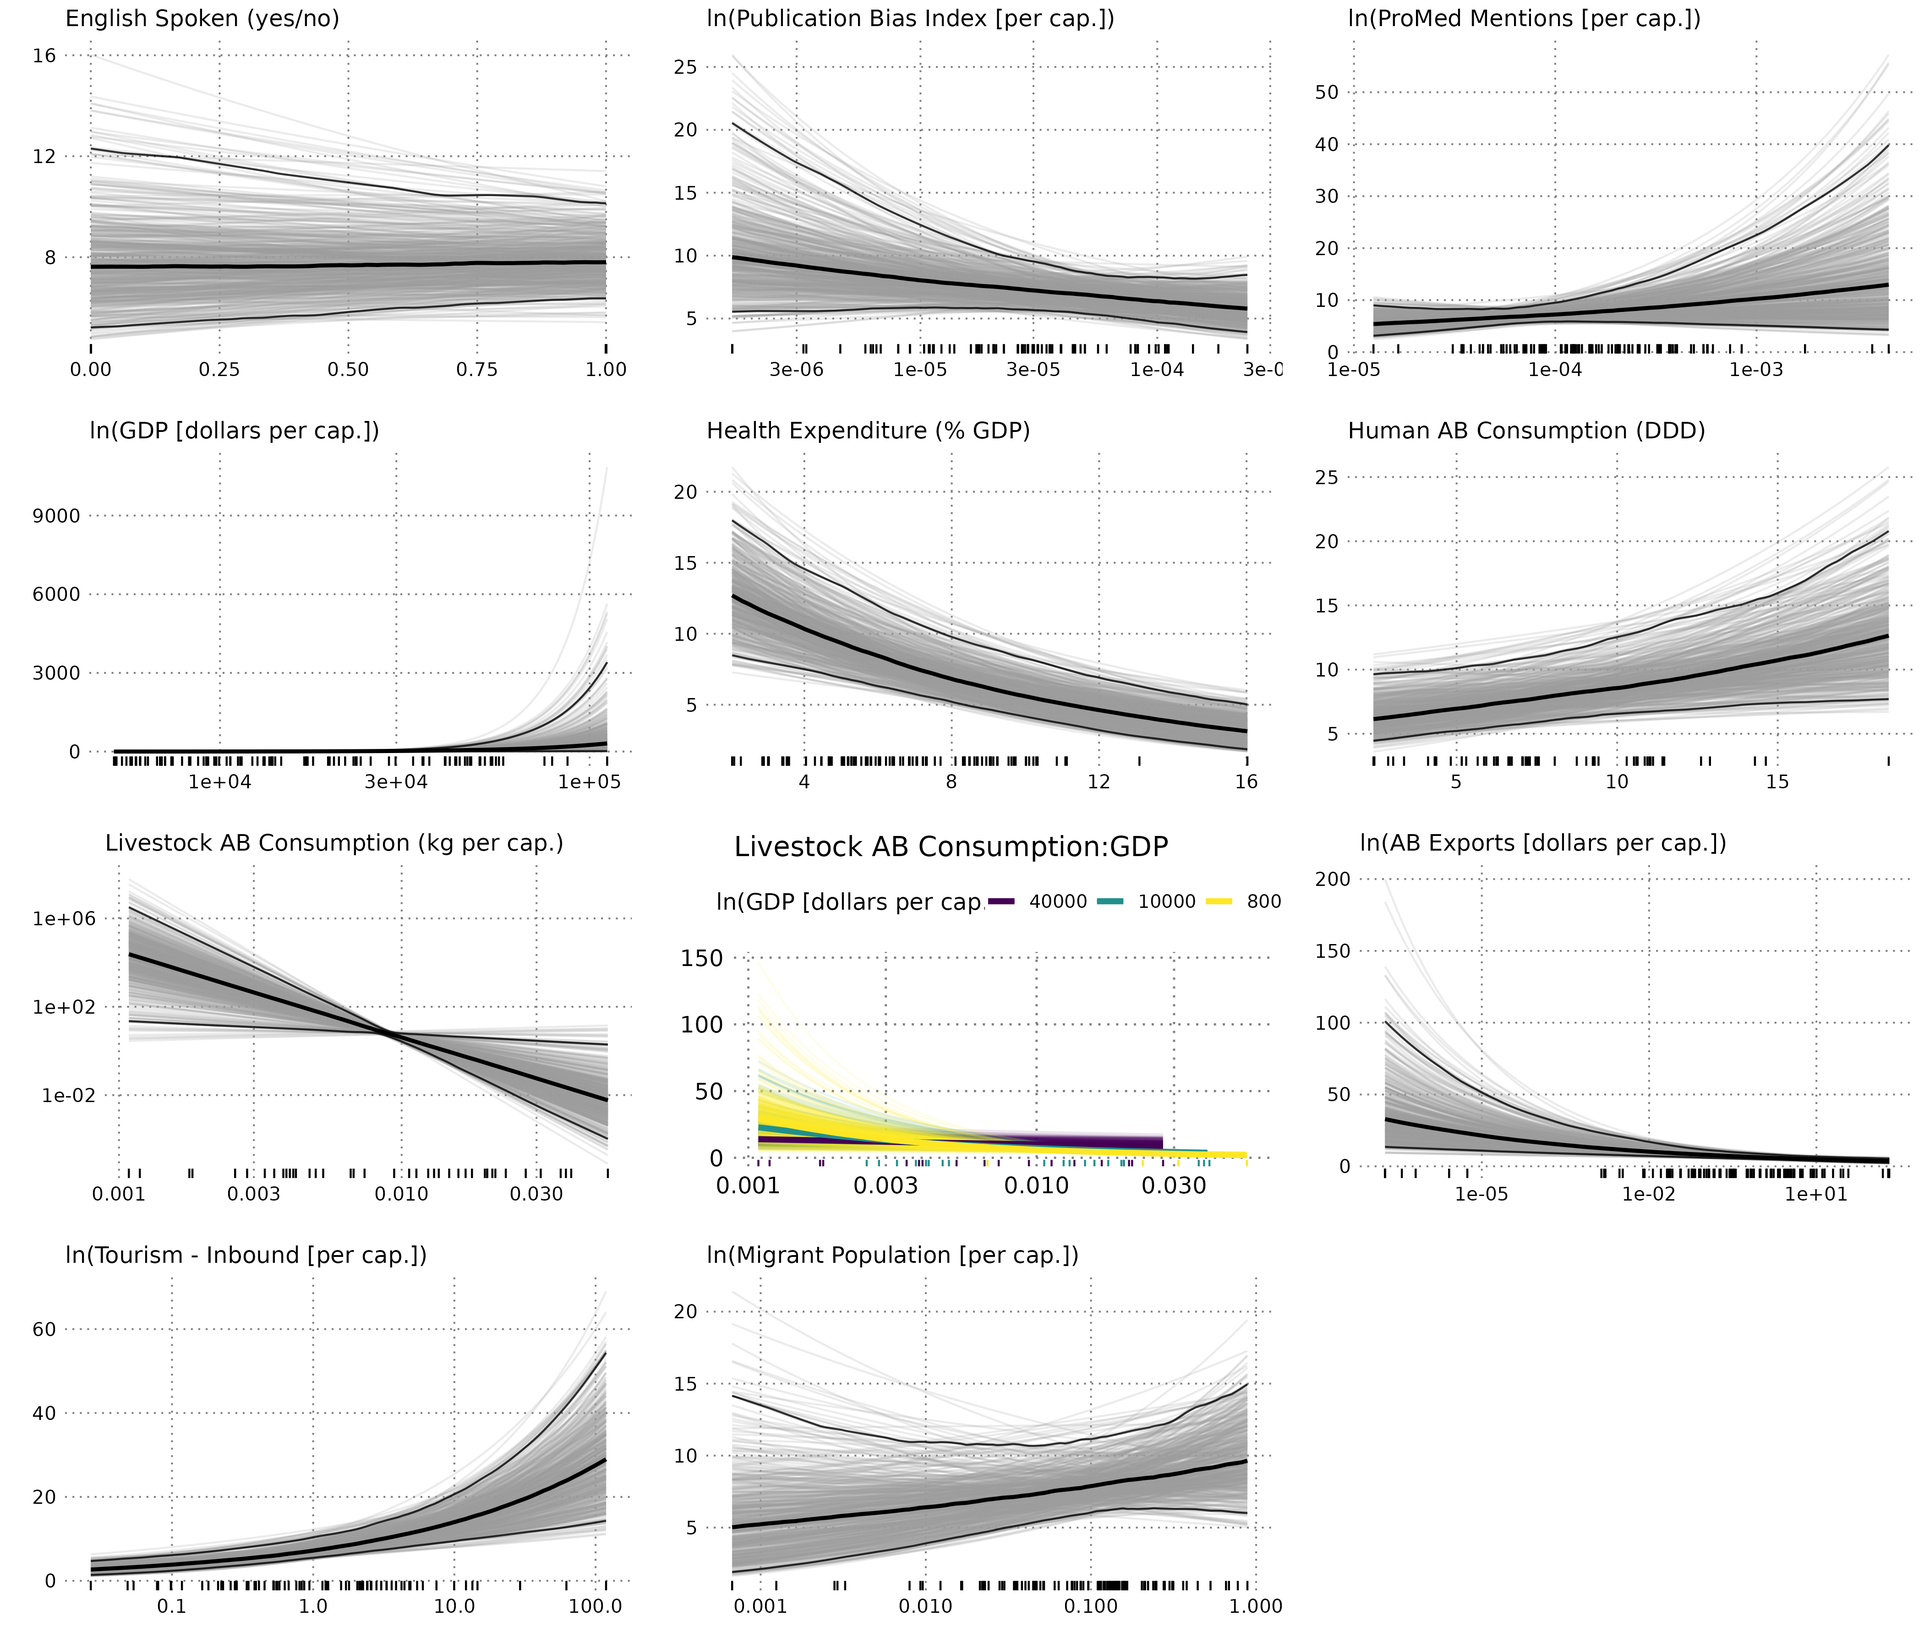
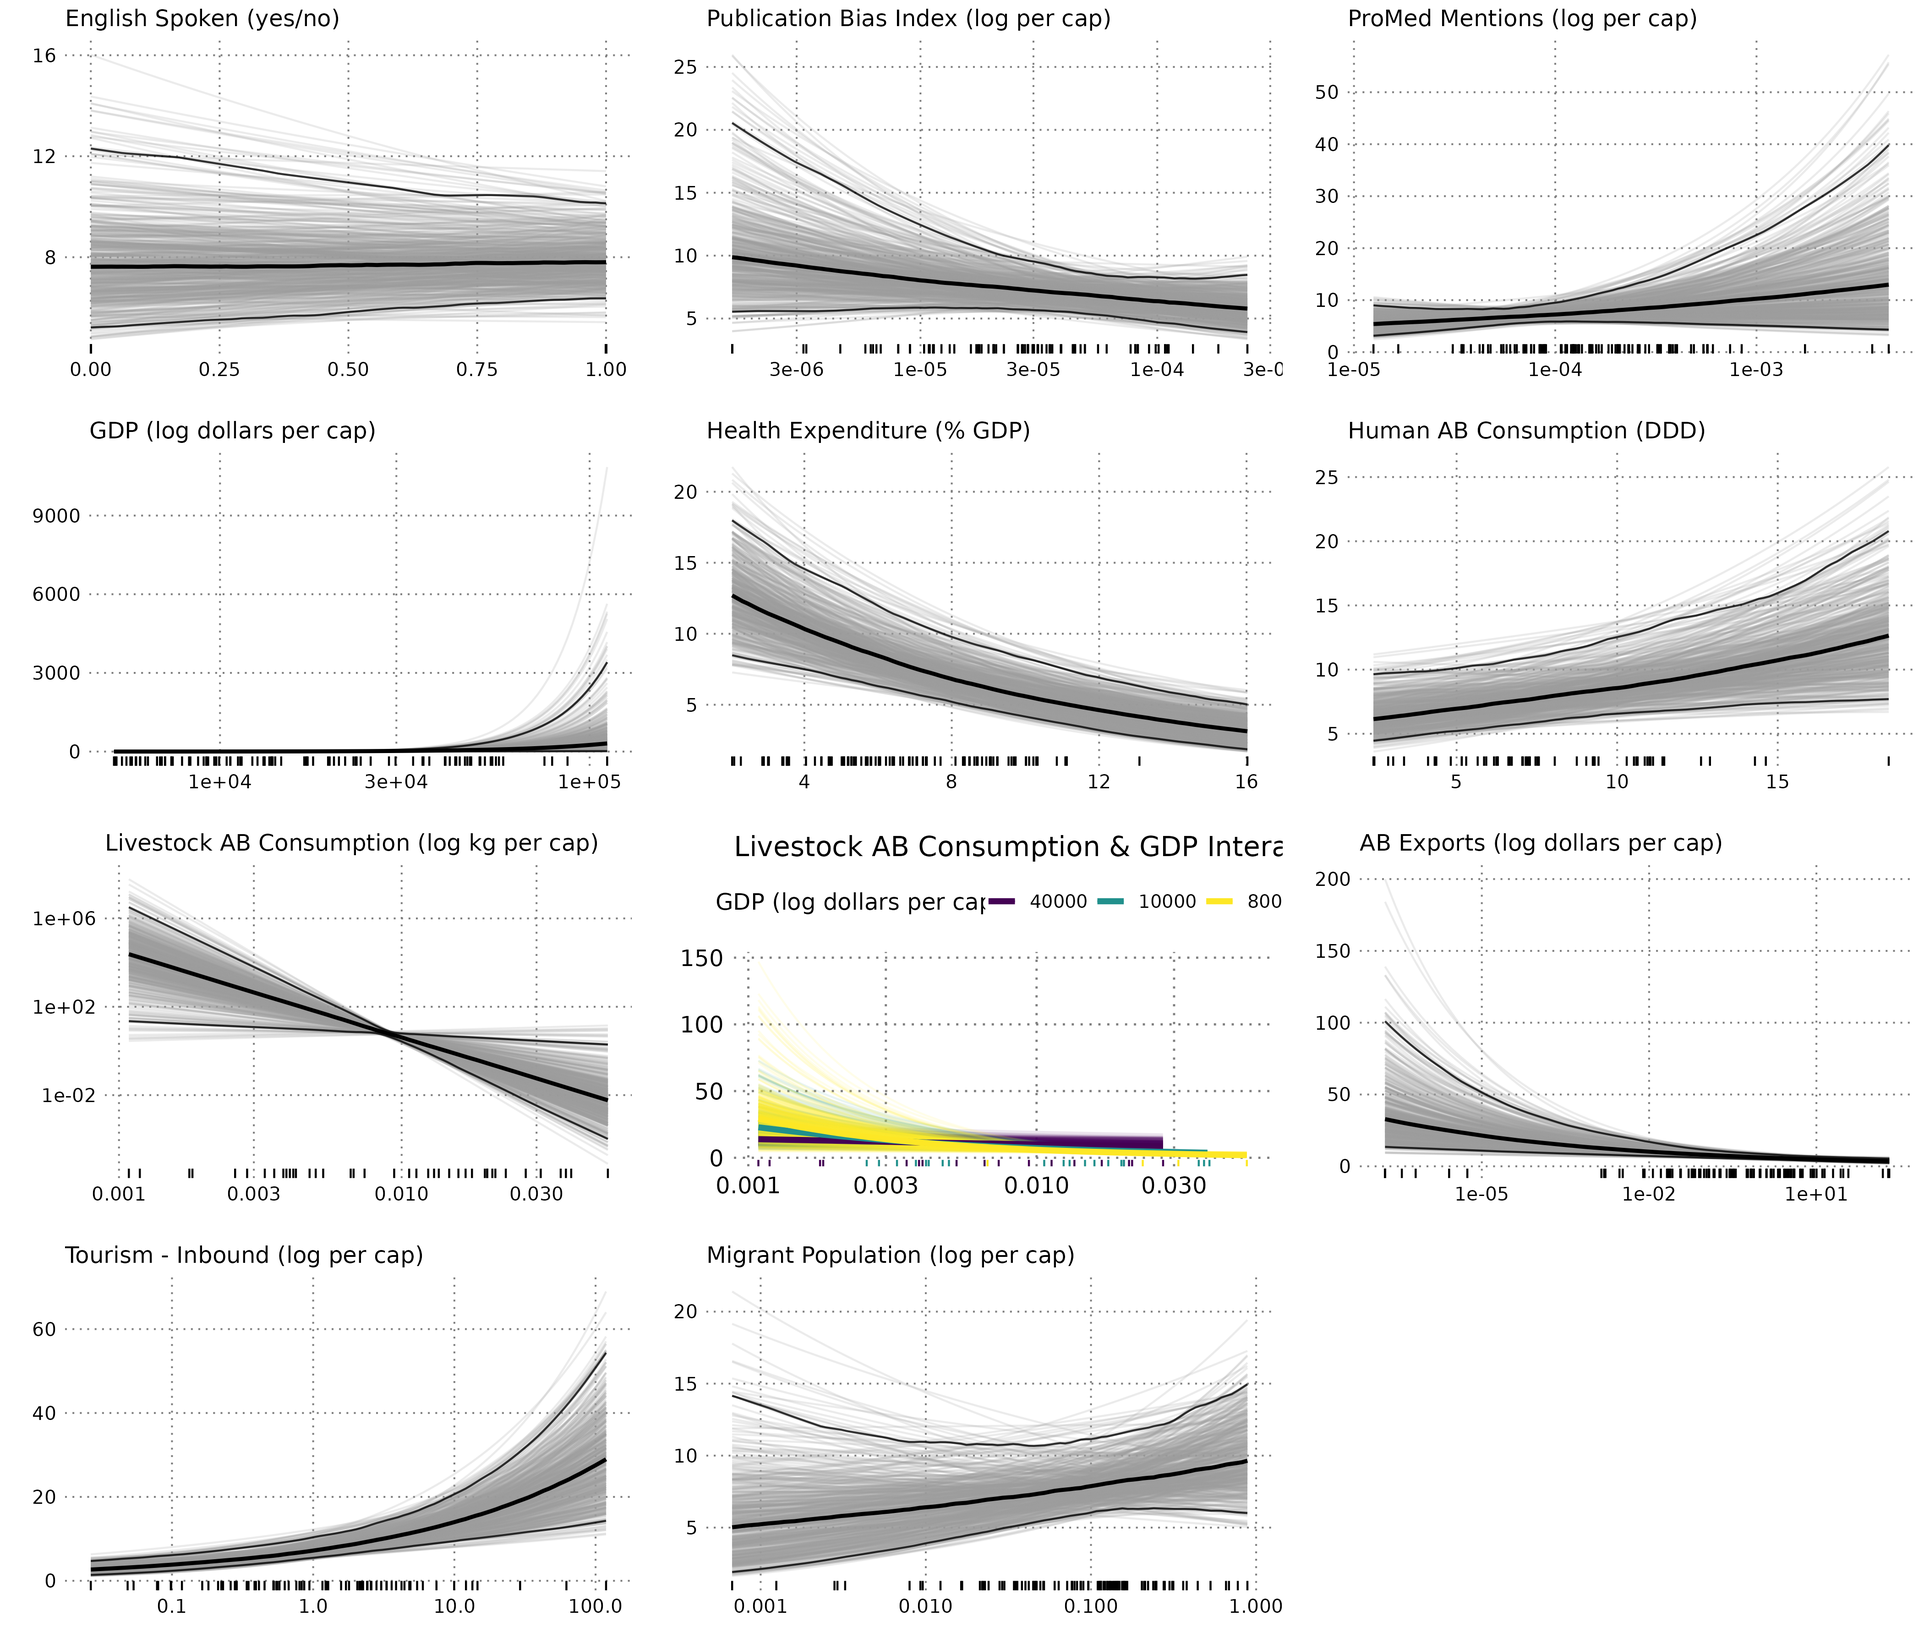
fixing labels

diff --git a/doc/quantities_model.html b/doc/quantities_model.html
@@ -436,26 +436,26 @@ map(mod_fit_data_mice_3_formula_3, function(x){
 ## 19 lp__                                                       1.00</code></pre>
 <p>Model coefficients</p>
 <pre class="r"><code>knitr::kable(coefs_3)</code></pre>
-<table style="width:100%;">
+<table>
 <colgroup>
 <col width="22%" />
-<col width="4%" />
-<col width="4%" />
-<col width="4%" />
+<col width="3%" />
+<col width="3%" />
+<col width="3%" />
 <col width="4%" />
 <col width="4%" />
 <col width="4%" />
 <col width="3%" />
-<col width="8%" />
+<col width="7%" />
 <col width="3%" />
 <col width="3%" />
 <col width="2%" />
+<col width="1%" />
 <col width="2%" />
 <col width="2%" />
-<col width="2%" />
-<col width="15%" />
-<col width="2%" />
-<col width="4%" />
+<col width="17%" />
+<col width="1%" />
+<col width="3%" />
 <col width="2%" />
 </colgroup>
 <thead>
@@ -498,7 +498,7 @@ map(mod_fit_data_mice_3_formula_3, function(x){
 <td align="right">12</td>
 <td align="right">11.93</td>
 <td align="right">12.07</td>
-<td align="left">Livestock AB Consumption (kg per cap.)</td>
+<td align="left">Livestock AB Consumption (log kg per cap)</td>
 <td align="right">0.02</td>
 <td align="left">TRUE</td>
 <td align="left">0.02*</td>
@@ -519,7 +519,7 @@ map(mod_fit_data_mice_3_formula_3, function(x){
 <td align="right">11</td>
 <td align="right">10.93</td>
 <td align="right">11.07</td>
-<td align="left">ln(GDP [dollars per cap.])</td>
+<td align="left">GDP (log dollars per cap)</td>
 <td align="right">7.13</td>
 <td align="left">TRUE</td>
 <td align="left">7.13*</td>
@@ -540,7 +540,7 @@ map(mod_fit_data_mice_3_formula_3, function(x){
 <td align="right">10</td>
 <td align="right">9.93</td>
 <td align="right">10.07</td>
-<td align="left">ln(Migrant Population [per cap.])</td>
+<td align="left">Migrant Population (log per cap)</td>
 <td align="right">1.11</td>
 <td align="left">FALSE</td>
 <td align="left">1.11</td>
@@ -561,7 +561,7 @@ map(mod_fit_data_mice_3_formula_3, function(x){
 <td align="right">9</td>
 <td align="right">8.93</td>
 <td align="right">9.07</td>
-<td align="left">ln(Tourism - Inbound [per cap.])</td>
+<td align="left">Tourism - Inbound (log per cap)</td>
 <td align="right">1.32</td>
 <td align="left">TRUE</td>
 <td align="left">1.32*</td>
@@ -582,7 +582,7 @@ map(mod_fit_data_mice_3_formula_3, function(x){
 <td align="right">8</td>
 <td align="right">7.93</td>
 <td align="right">8.07</td>
-<td align="left">ln(AB Exports [dollars per cap.])</td>
+<td align="left">AB Exports (log dollars per cap)</td>
 <td align="right">0.90</td>
 <td align="left">TRUE</td>
 <td align="left">0.9*</td>
@@ -666,7 +666,7 @@ map(mod_fit_data_mice_3_formula_3, function(x){
 <td align="right">4</td>
 <td align="right">3.93</td>
 <td align="right">4.07</td>
-<td align="left">ln(Publication Bias Index [per cap.])</td>
+<td align="left">Publication Bias Index (log per cap)</td>
 <td align="right">0.89</td>
 <td align="left">FALSE</td>
 <td align="left">0.89</td>
@@ -687,7 +687,7 @@ map(mod_fit_data_mice_3_formula_3, function(x){
 <td align="right">3</td>
 <td align="right">2.93</td>
 <td align="right">3.07</td>
-<td align="left">ln(ProMed Mentions [per cap.])</td>
+<td align="left">ProMed Mentions (log per cap)</td>
 <td align="right">1.17</td>
 <td align="left">FALSE</td>
 <td align="left">1.17</td>
@@ -708,7 +708,7 @@ map(mod_fit_data_mice_3_formula_3, function(x){
 <td align="right">2</td>
 <td align="right">1.93</td>
 <td align="right">2.07</td>
-<td align="left">Livestock AB Consumption:GDP</td>
+<td align="left">Livestock AB Consumption &amp; GDP Interaction</td>
 <td align="right">1.44</td>
 <td align="left">TRUE</td>
 <td align="left">1.44*</td>
@@ -729,7 +729,7 @@ map(mod_fit_data_mice_3_formula_3, function(x){
 <td align="right">4</td>
 <td align="right">3.93</td>
 <td align="right">4.07</td>
-<td align="left">ln(Publication Bias Index [per cap.])</td>
+<td align="left">Publication Bias Index (log per cap)</td>
 <td align="right">0.84</td>
 <td align="left">FALSE</td>
 <td align="left">0.84</td>
@@ -750,7 +750,7 @@ map(mod_fit_data_mice_3_formula_3, function(x){
 <td align="right">3</td>
 <td align="right">2.93</td>
 <td align="right">3.07</td>
-<td align="left">ln(ProMed Mentions [per cap.])</td>
+<td align="left">ProMed Mentions (log per cap)</td>
 <td align="right">3.80</td>
 <td align="left">TRUE</td>
 <td align="left">3.8*</td>
@@ -771,7 +771,7 @@ map(mod_fit_data_mice_3_formula_3, function(x){
 <td align="right">11</td>
 <td align="right">10.93</td>
 <td align="right">11.07</td>
-<td align="left">ln(GDP [dollars per cap.])</td>
+<td align="left">GDP (log dollars per cap)</td>
 <td align="right">0.18</td>
 <td align="left">TRUE</td>
 <td align="left">0.18*</td>
@@ -792,7 +792,7 @@ map(mod_fit_data_mice_3_formula_3, function(x){
 <td align="right">1</td>
 <td align="right">0.93</td>
 <td align="right">1.07</td>
-<td align="left">ln(Population)</td>
+<td align="left">Population (log)</td>
 <td align="right">0.43</td>
 <td align="left">TRUE</td>
 <td align="left">0.43*</td>
@@ -821,11 +821,7 @@ map(mod_fit_data_mice_3_formula_3, function(x){
 </tbody>
 </table>
 <p>get means and predict doubling for each vars</p>
-<pre class="r"><code># add interaction to data_mice_compl
-data_mice_compl_3 &lt;- data_mice_compl_3 %&gt;% 
-  mutate(&quot;ln_livestock_consumption_kg_per_capita:ln_gdp_per_capita&quot; = ln_livestock_consumption_kg_per_capita * ln_gdp_per_capita)
-
-amr_means &lt;- colMeans(as.matrix(data_mice_compl_3[,unique(c(zi_vars_3, pois_vars_3))])) %&gt;%
+<pre class="r"><code>amr_means &lt;- colMeans(as.matrix(data_mice_compl_3[,unique(c(zi_vars_3, pois_vars_3[-11]))])) %&gt;%
   enframe() %&gt;%
   pivot_wider(names_from = name, values_from = value)
 
@@ -840,7 +836,7 @@ mean_estimate_no_zero &lt;- mean_estimate %&gt;%
 ## Call `lifecycle::last_lifecycle_warnings()` to see where this warning was generated.</code></pre>
 <pre class="r"><code>imap_dfr(amr_means, function(x, y){
   
-  # predict amr when x is doubled
+  # predict amr when x is doubled (doubling livestock or GDP will also feed into the interaction)
   dbl_estimate &lt;- amr_means %&gt;%
     mutate(!!y := ifelse(str_detect(y, &quot;ln_&quot;), log(exp(x) * 2), x * 2)) %&gt;%
     predict(mod_comb_3, newdata = ., summary = FALSE)
@@ -851,7 +847,7 @@ mean_estimate_no_zero &lt;- mean_estimate %&gt;%
     filter(amr_dbl_est &gt; 0) |&gt; 
     bind_cols(mean_estimate_no_zero) |&gt; 
     mutate(amr_est_diff = (amr_dbl_est - amr_mean_est)/amr_mean_est) |&gt; 
-    summarize(amr_mean_diff_when_doubled = mean(amr_est_diff), amd_std_diff_when_doubled = sd(amr_est_diff))
+    summarize(amr_mean_perc_diff_when_doubled = scales::percent(mean(amr_est_diff)), amd_std_diff_when_doubled = scales::percent(sd(amr_est_diff)))
   
   mean_value &lt;- ifelse(str_detect(y, &quot;ln_&quot;), exp( amr_means %&gt;% pull(y)),  amr_means %&gt;% pull(y))
   
@@ -860,100 +856,130 @@ mean_estimate_no_zero &lt;- mean_estimate %&gt;%
     mutate_if(.predicate = is.numeric, ~signif(., digits = 2))
 }) %&gt;% 
   knitr::kable()</code></pre>
-<pre><code>## Warning: The `x` argument of `as_tibble.matrix()` must have unique column names if `.name_repair` is omitted as of tibble 2.0.0.
+<pre><code>## Warning: The `x` argument of `as_tibble.matrix()` must have unique column names if `.name_repair`
+## is omitted as of tibble 2.0.0.
 ## ℹ Using compatibility `.name_repair`.
 ## This warning is displayed once every 8 hours.
 ## Call `lifecycle::last_lifecycle_warnings()` to see where this warning was generated.</code></pre>
 <table>
 <colgroup>
-<col width="45%" />
-<col width="12%" />
-<col width="21%" />
-<col width="20%" />
+<col width="34%" />
+<col width="13%" />
+<col width="28%" />
+<col width="23%" />
 </colgroup>
 <thead>
 <tr class="header">
 <th align="left">var</th>
 <th align="right">mean_var_value</th>
-<th align="right">amr_mean_diff_when_doubled</th>
-<th align="right">amd_std_diff_when_doubled</th>
+<th align="left">amr_mean_perc_diff_when_doubled</th>
+<th align="left">amd_std_diff_when_doubled</th>
 </tr>
 </thead>
 <tbody>
 <tr class="odd">
 <td align="left">ln_pubcrawl_per_capita</td>
 <td align="right">1.6e-05</td>
-<td align="right">-0.07800</td>
-<td align="right">0.36</td>
+<td align="left">-8%</td>
+<td align="left">36%</td>
 </tr>
 <tr class="even">
 <td align="left">ln_promed_mentions_per_capita</td>
 <td align="right">1.5e-04</td>
-<td align="right">0.13000</td>
-<td align="right">0.48</td>
+<td align="left">13%</td>
+<td align="left">48%</td>
 </tr>
 <tr class="odd">
 <td align="left">ln_gdp_per_capita</td>
 <td align="right">1.7e+04</td>
-<td align="right">0.20000</td>
-<td align="right">0.44</td>
+<td align="left">20%</td>
+<td align="left">44%</td>
 </tr>
 <tr class="even">
 <td align="left">ln_population</td>
 <td align="right">4.6e+06</td>
-<td align="right">1.00000</td>
-<td align="right">0.61</td>
+<td align="left">100%</td>
+<td align="left">61%</td>
 </tr>
 <tr class="odd">
 <td align="left">english_spoken</td>
 <td align="right">5.1e-01</td>
-<td align="right">0.01200</td>
-<td align="right">0.37</td>
+<td align="left">1%</td>
+<td align="left">37%</td>
 </tr>
 <tr class="even">
 <td align="left">ln_livestock_consumption_kg_per_capita</td>
 <td align="right">8.4e-03</td>
-<td align="right">-0.26000</td>
-<td align="right">0.31</td>
+<td align="left">-26%</td>
+<td align="left">31%</td>
 </tr>
 <tr class="odd">
 <td align="left">ln_migrant_pop_per_capita</td>
 <td align="right">7.7e-02</td>
-<td align="right">0.07000</td>
-<td align="right">0.40</td>
+<td align="left">7%</td>
+<td align="left">40%</td>
 </tr>
 <tr class="even">
 <td align="left">ln_tourism_inbound_per_capita</td>
 <td align="right">1.3e+00</td>
-<td align="right">0.22000</td>
-<td align="right">0.44</td>
+<td align="left">22%</td>
+<td align="left">44%</td>
 </tr>
 <tr class="odd">
 <td align="left">ln_ab_export_per_capita</td>
 <td align="right">1.5e-01</td>
-<td align="right">-0.06800</td>
-<td align="right">0.37</td>
+<td align="left">-7%</td>
+<td align="left">37%</td>
 </tr>
 <tr class="even">
 <td align="left">health_expend_perc</td>
 <td align="right">6.9e+00</td>
-<td align="right">-0.48000</td>
-<td align="right">0.27</td>
+<td align="left">-48%</td>
+<td align="left">27%</td>
 </tr>
 <tr class="odd">
 <td align="left">human_consumption_ddd</td>
 <td align="right">7.3e+00</td>
-<td align="right">0.36000</td>
-<td align="right">0.50</td>
-</tr>
-<tr class="even">
-<td align="left">ln_livestock_consumption_kg_per_capita:ln_gdp_per_capita</td>
-<td align="right">0.0e+00</td>
-<td align="right">0.00096</td>
-<td align="right">0.39</td>
+<td align="left">36%</td>
+<td align="left">50%</td>
 </tr>
 </tbody>
 </table>
+<pre class="r"><code># doubling livestock at low gdp
+
+gdp &lt;- quantile(data_mice_compl_3$ln_gdp_per_capita, 0.05)
+
+dbl_estimate &lt;- amr_means %&gt;%
+  mutate(ln_gdp_per_capita = gdp) |&gt; 
+  mutate(ln_livestock_consumption_kg_per_capita = log(exp(ln_livestock_consumption_kg_per_capita) * 2)) %&gt;%
+  predict(mod_comb_3, newdata = ., summary = FALSE)
+
+dbl_estimate_no_zero &lt;- dbl_estimate %&gt;% 
+  as_tibble() |&gt; 
+  rename(amr_dbl_est = V1) |&gt; 
+  filter(amr_dbl_est &gt; 0) |&gt; 
+  bind_cols(mean_estimate_no_zero) |&gt; 
+  mutate(amr_est_diff = (amr_dbl_est - amr_mean_est)/amr_mean_est) |&gt; 
+  summarize(amr_mean_perc_diff_when_doubled = scales::percent(mean(amr_est_diff)), amd_std_diff_when_doubled = scales::percent(sd(amr_est_diff)))
+
+
+# when does relationship between livestock and amr become positive?
+coef_livestock &lt;- log(coefs_3$est[coefs_3$term == &quot;ln_livestock_consumption_kg_per_capita&quot;])
+coef_gdp &lt;- log(coefs_3$est[coefs_3$term == &quot;ln_gdp_per_capita&quot; &amp; coefs_3$wrap.facet == &quot;Conditional Model&quot;])
+coef_interaction &lt;- log(coefs_3$est[coefs_3$term == &quot;ln_livestock_consumption_kg_per_capita:ln_gdp_per_capita&quot;])
+
+
+# livestock OR = b1x1 + b3x1x2
+# where b1 = coef_livestock; x1 = livestock; b3 = coef_interaction; x2 = gdp
+# x1 = 1
+# when gdp = 0, OR = b1
+# when gdp = 1, OR = b1 + b3
+# when gdp = 2, OR = b1 + 2 * b3
+# what value of x2 (gdp) corresponds to OR of 0?
+# x2 = (0-b1)/b3
+pos_point &lt;- (0 - coef_livestock)/coef_interaction
+exp(pos_point)</code></pre>
+<pre><code>## [1] 45631.85</code></pre>
 <p>Differences between predicted versus actual</p>
 <pre class="r"><code>loadd(predicted_versus_actual_diff_3)
 
@@ -965,19 +991,19 @@ predicted_versus_actual_diff_3 %&gt;%
 ## 1                     0.737</code></pre>
 <pre class="r"><code>predicted_versus_actual_diff_3 </code></pre>
 <pre><code>## # A tibble: 95 × 10
-##    iso3c v           med     lo     hi continent country              n_amr_events  diff country_lab                   
-##    &lt;chr&gt; &lt;chr&gt;     &lt;dbl&gt;  &lt;dbl&gt;  &lt;dbl&gt; &lt;chr&gt;     &lt;chr&gt;                       &lt;dbl&gt; &lt;dbl&gt; &lt;chr&gt;                         
-##  1 RUS   mean_pop 155.    82.0  266.   Europe    Russia                          0 155.  Russia (82 - 266)             
-##  2 SAU   mean_pop  95.4   47.8  186.   Asia      Saudi Arabia                    0  95.4 Saudi Arabia (48 - 186)       
-##  3 CAN   mean_pop  38.7   31.3   47.4  Americas  Canada                         98 -59.3 Canada (31 - 47)              
-##  4 AZE   mean_pop  48.9   17.5  183.   Asia      Azerbaijan                      0  48.9 Azerbaijan (17 - 183)         
-##  5 GBR   mean_pop  67.9   50.4   83.2  Europe    United Kingdom                 22  45.9 United Kingdom (50 - 83)      
-##  6 USA   mean_pop 176.   149.   201.   Americas  United States                 132  43.5 United States (149 - 201)     
-##  7 TKM   mean_pop  41.9   13.8  182.   Asia      Turkmenistan                    0  41.9 Turkmenistan (14 - 182)       
-##  8 NOR   mean_pop   5.16   3.05   9.33 Europe    Norway                         39 -33.8 Norway (3 - 9)                
-##  9 ARE   mean_pop  30.6   22.0   41.4  Asia      United Arab Emirates            0  30.6 United Arab Emirates (22 - 41)
-## 10 IRL   mean_pop   7.43   5.85   9.68 Europe    Ireland                        38 -30.6 Ireland (6 - 10)              
-## # … with 85 more rows</code></pre>
+##    iso3c v           med     lo     hi continent country            n_amr…¹  diff count…²
+##    &lt;chr&gt; &lt;chr&gt;     &lt;dbl&gt;  &lt;dbl&gt;  &lt;dbl&gt; &lt;chr&gt;     &lt;chr&gt;                &lt;dbl&gt; &lt;dbl&gt; &lt;chr&gt;  
+##  1 RUS   mean_pop 155.    82.0  266.   Europe    Russia                   0 155.  Russia…
+##  2 SAU   mean_pop  95.4   47.8  186.   Asia      Saudi Arabia             0  95.4 Saudi …
+##  3 CAN   mean_pop  38.7   31.3   47.4  Americas  Canada                  98 -59.3 Canada…
+##  4 AZE   mean_pop  48.9   17.5  183.   Asia      Azerbaijan               0  48.9 Azerba…
+##  5 GBR   mean_pop  67.9   50.4   83.2  Europe    United Kingdom          22  45.9 United…
+##  6 USA   mean_pop 176.   149.   201.   Americas  United States          132  43.5 United…
+##  7 TKM   mean_pop  41.9   13.8  182.   Asia      Turkmenistan             0  41.9 Turkme…
+##  8 NOR   mean_pop   5.16   3.05   9.33 Europe    Norway                  39 -33.8 Norway…
+##  9 ARE   mean_pop  30.6   22.0   41.4  Asia      United Arab Emira…       0  30.6 United…
+## 10 IRL   mean_pop   7.43   5.85   9.68 Europe    Ireland                 38 -30.6 Irelan…
+## # … with 85 more rows, and abbreviated variable names ¹n_amr_events, ²country_lab</code></pre>
 <pre class="r"><code>predicted_versus_actual_diff_3 %&gt;% 
   select(-iso3c, -v, -country) %&gt;% 
   select(country_lab, continent, everything()) %&gt;% 
